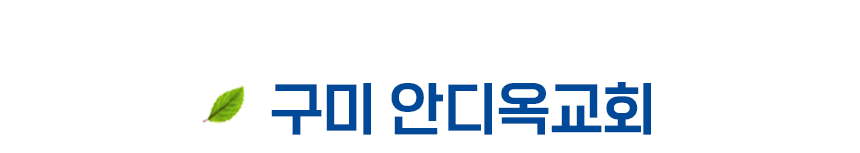
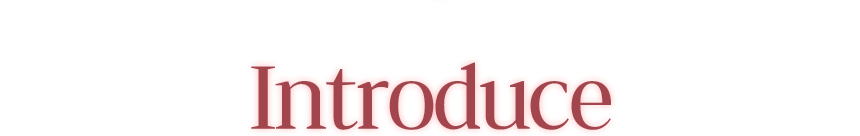
2차

Changed region(s): [[0.2116, 0.4706, 0.7558, 0.9706]]

diff --git a/index.html b/index.html
@@ -31,7 +31,7 @@
         }, 900000); // 900000밀리초 = 900초후 페이지 새로고침
     </script>
 
-    <meta property="og:image" content="img2/metaimg.jpg" />
+    <meta property="og:image" content="img2/metaimg.png" />
     <title>전교인 새생명 초청주일</title>
     <meta property="og:description" content="2025년 3/30(일) 안디옥교회 본당" />
     <meta name="apple-mobile-web-app-capable" content="yes" />
@@ -92,6 +92,12 @@
                     <img class="first-part reveal" src="img2/11.png" alt="leap1" />
                 </a>
             </div>
+            <div>
+                <img class="first-part reveal" src="img2/12.png" alt="" />
+            </div>
+            <div>
+                <img class="first-part reveal" src="img2/13.png" alt="" />
+            </div>
             <!-- <div>
                 <a href="https://map.naver.com/p/search/구미안디옥교회/place/12448686?c=15.00,0,0,0,dh&isCorrectAnswer=true" target="_blank">
                     <img class="first-part reveal" id="cursor" src="img2/12.png" alt="" />
@@ -122,7 +128,7 @@
                 </a>
                 <a id="copyUrl" href="#" class="copyText copyUrl nanum-font">링크 복사</a>
                 <div>
-                    <textarea id="url" readonly="">https://prorege.github.io/salvationday/</textarea>
+                    <textarea id="url" readonly="">https://salvationday-250330.netlify.app/</textarea>
                     <script>
                         $(".copyUrl").click(function () {
                             $("#url").select();
@@ -136,7 +142,7 @@
             <div id="information1">
                 <script src="https://t1.kakaocdn.net/kakao_js_sdk/2.1.0/kakao.min.js" integrity="sha384-dpu02ieKC6NUeKFoGMOKz6102CLEWi9+5RQjWSV0ikYSFFd8M3Wp2reIcquJOemx" crossorigin="anonymous"></script>
                 <script>
-                    Kakao.init("596b4307d682209d7117ba6031069a81");
+                    Kakao.init("b9d626cc4e7bdf983a794510902621bd");
                     if (!Kakao.isInitialized()) {
                         console.error("Kakao SDK initialization failed");
                     }
@@ -149,7 +155,7 @@
                 <script>
                     function shareMessage() {
                         Kakao.Share.sendScrap({
-                            requestUrl: "https://prorege.github.io/salvationday/",
+                            requestUrl: "https://salvationday-250330.netlify.app/",
                         });
                     }
                 </script>
@@ -166,12 +172,12 @@
                     <img src="./img2/insta.png" class="sns-logo" />
                 </a>
             </div>
-            <div class="footer-socials">
+            <!-- <div class="footer-socials">
                 <img
               style="width: 50%; margin: 30px auto 0px auto"
-                src="https://hits.seeyoufarm.com/api/count/incr/badge.svg?url=https%3A%2F%2Fprorege.github.io%2F2024_newlife&count_bg=%2354AEEE&title_bg=%231762E4&icon=&icon_color=%23E7E7E7&title=%EB%B0%A9%EB%AC%B8%EC%9E%90+%EC%88%98%28%EC%9D%BC%2F%EC%A0%84%EC%B2%B4%29&edge_flat=false"
+                src="https://hits.seeyoufarm.com/api/count/incr/badge.svg?url=https%3A%2F%2Fsalvationday-250330.netlify.app&count_bg=%23F64F6C&title_bg=%23EEBEBE&icon=&icon_color=%23E7E7E7&title=%EB%B0%A9%EB%AC%B8%EC%9E%90+%EC%88%98%28%EC%9D%BC%2F%EC%A0%84%EC%B2%B4%29&edge_flat=false"
             /> 
-            </div>
+            </div> -->
 
              
 

diff --git a/src/style.css b/src/style.css
@@ -1560,7 +1560,7 @@ padding-right: 0;
   margin: auto 0;
   padding: auto 0;
   font-family: 'Nanum Myeongjo', serif;
-  color: #EAD5B7;
+  color: #a3454c;
 }
 
 @keyframes blink-effect {
